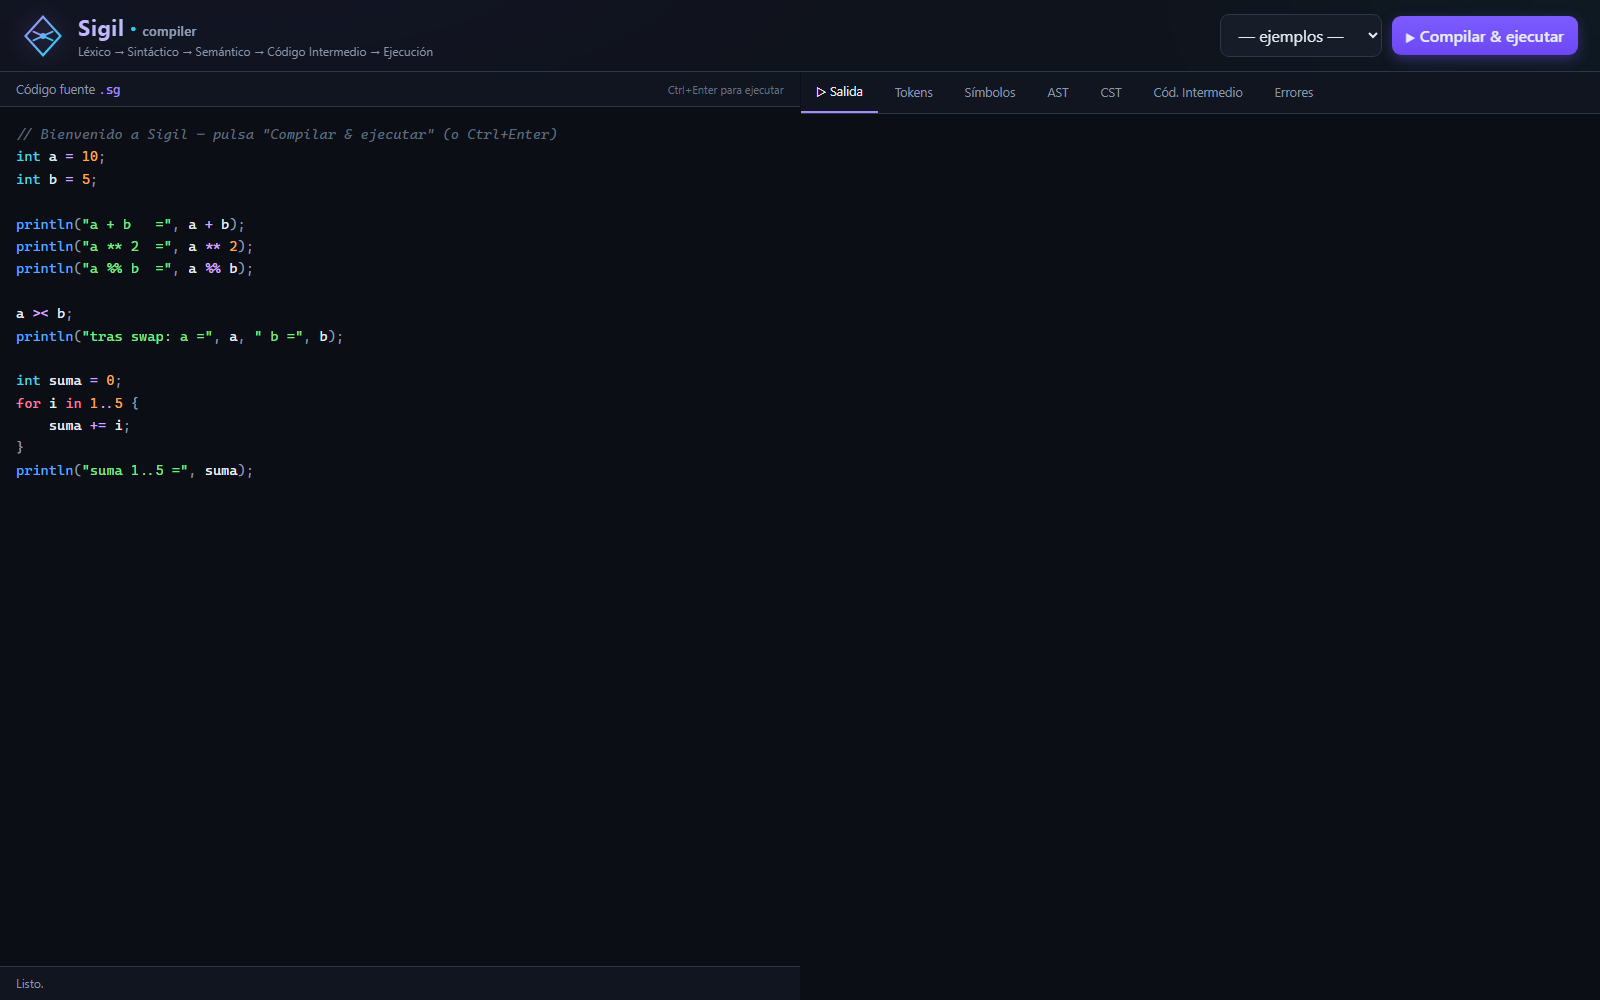
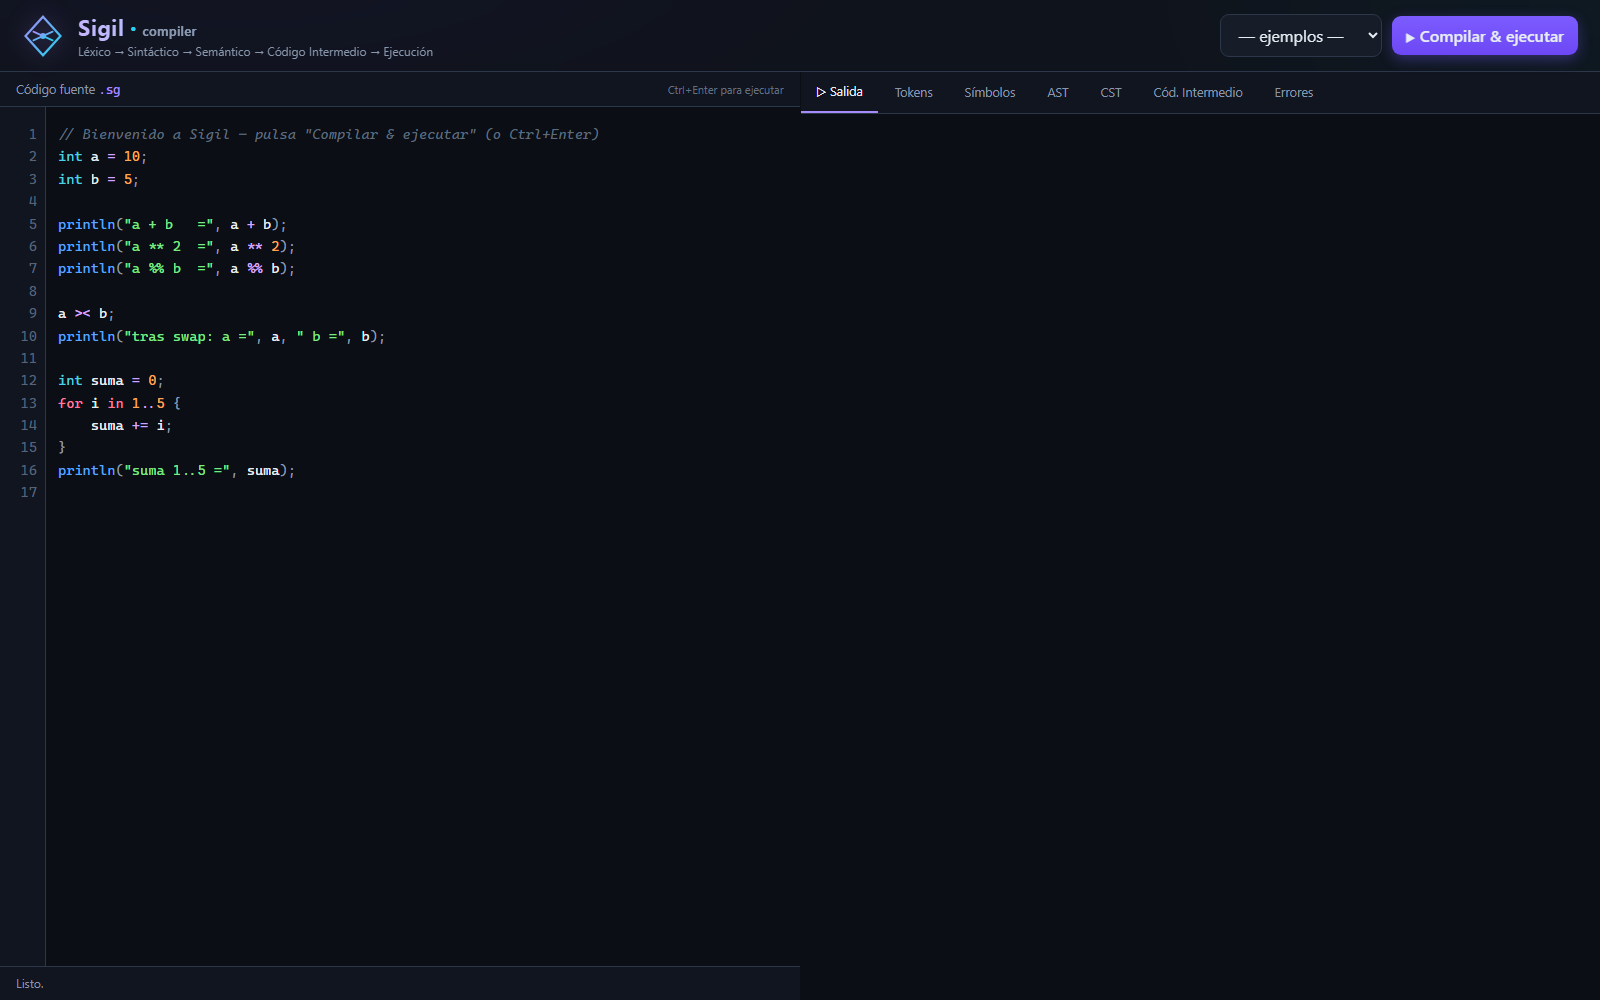
feat(web): numeracion de lineas en el editor de codigo

diff --git a/web/style.css b/web/style.css
@@ -17,6 +17,7 @@
   --efont-size: 14px;
   --eline: 1.6;
   --epad: 16px;
+  --gutter: 46px;   /* ancho de la columna de numeros de linea */
 }
 
 * { box-sizing: border-box; }
@@ -81,10 +82,24 @@ main { flex: 1; display: grid; grid-template-columns: 1fr 1fr; gap: 1px; min-hei
 .highlight, #code {
   position: absolute; inset: 0; margin: 0;
   font-family: var(--mono); font-size: var(--efont-size); line-height: var(--eline);
-  padding: var(--epad); border: 0; tab-size: 4;
+  padding: var(--epad) var(--epad) var(--epad) calc(var(--gutter) + 12px);
+  border: 0; tab-size: 4;
   white-space: pre; overflow: auto; word-wrap: normal;
 }
 .highlight { z-index: 1; pointer-events: none; color: var(--fg); }
+
+/* Columna de numeros de linea */
+#gutter {
+  position: absolute; top: 0; bottom: 0; left: 0; width: var(--gutter);
+  z-index: 4; pointer-events: none; overflow: hidden;
+  background: var(--bg2); border-right: 1px solid var(--border2);
+}
+#gutterinner {
+  position: absolute; top: 0; left: 0; right: 0; padding-top: var(--epad);
+  font-family: var(--mono); font-size: var(--efont-size); line-height: var(--eline);
+  color: #56637a; text-align: right; white-space: pre;
+  padding-right: 8px;
+}
 .highlight code { font: inherit; }
 #code {
   z-index: 2; background: transparent; color: transparent;
@@ -108,9 +123,9 @@ main { flex: 1; display: grid; grid-template-columns: 1fr 1fr; gap: 1px; min-hei
 /* capa de marcado de errores sobre el editor */
 #errlayer { position: absolute; inset: 0; z-index: 3; pointer-events: none; overflow: hidden; }
 #errinner { position: absolute; inset: 0; }
-.eln { position: absolute; left: 0; right: 0; pointer-events: none;
+.eln { position: absolute; left: var(--gutter); right: 0; pointer-events: none;
   background: rgba(248,81,73,.10); box-shadow: inset 0 -2px 0 rgba(248,81,73,.55); }
-.egut { position: absolute; left: 0; width: 5px; background: var(--red); pointer-events: auto; cursor: help; }
+.egut { position: absolute; left: var(--gutter); width: 5px; background: var(--red); pointer-events: auto; cursor: help; }
 .egut:hover { width: 7px; }
 
 .status { padding: 8px 16px; font-size: 12px; color: var(--muted); border-top: 1px solid var(--border2); background: var(--bg2); min-height: 34px; }

diff --git a/web/app.js b/web/app.js
@@ -51,13 +51,22 @@ function resaltar(code) {
 
 const codeEl = $("#code");
 const hlEl = $("#highlight").querySelector("code");
+const gutInner = $("#gutterinner");
+function actualizarGutter(v) {
+  const n = (v.match(/\n/g) || []).length + 1;
+  let s = "";
+  for (let i = 1; i <= n; i++) s += i + "\n";
+  gutInner.textContent = s;
+}
 function pintarEditor() {
   const v = codeEl.value;
   hlEl.innerHTML = resaltar(v) + (v.endsWith("\n") ? " " : "");
+  actualizarGutter(v);
 }
 function syncScroll() {
   const pre = $("#highlight");
   pre.scrollTop = codeEl.scrollTop; pre.scrollLeft = codeEl.scrollLeft;
+  gutInner.style.transform = `translateY(${-codeEl.scrollTop}px)`;
   const inner = $("#errinner");
   if (inner) inner.style.transform = `translate(${-codeEl.scrollLeft}px, ${-codeEl.scrollTop}px)`;
 }

diff --git a/web/index.html b/web/index.html
@@ -41,6 +41,7 @@
         <span class="hint">Ctrl+Enter para ejecutar</span>
       </div>
       <div class="editor-wrap">
+        <div id="gutter" aria-hidden="true"><div id="gutterinner"></div></div>
         <pre class="highlight" id="highlight" aria-hidden="true"><code></code></pre>
         <textarea id="code" spellcheck="false" autocomplete="off" autocapitalize="off"></textarea>
         <div id="errlayer"><div id="errinner"></div></div>